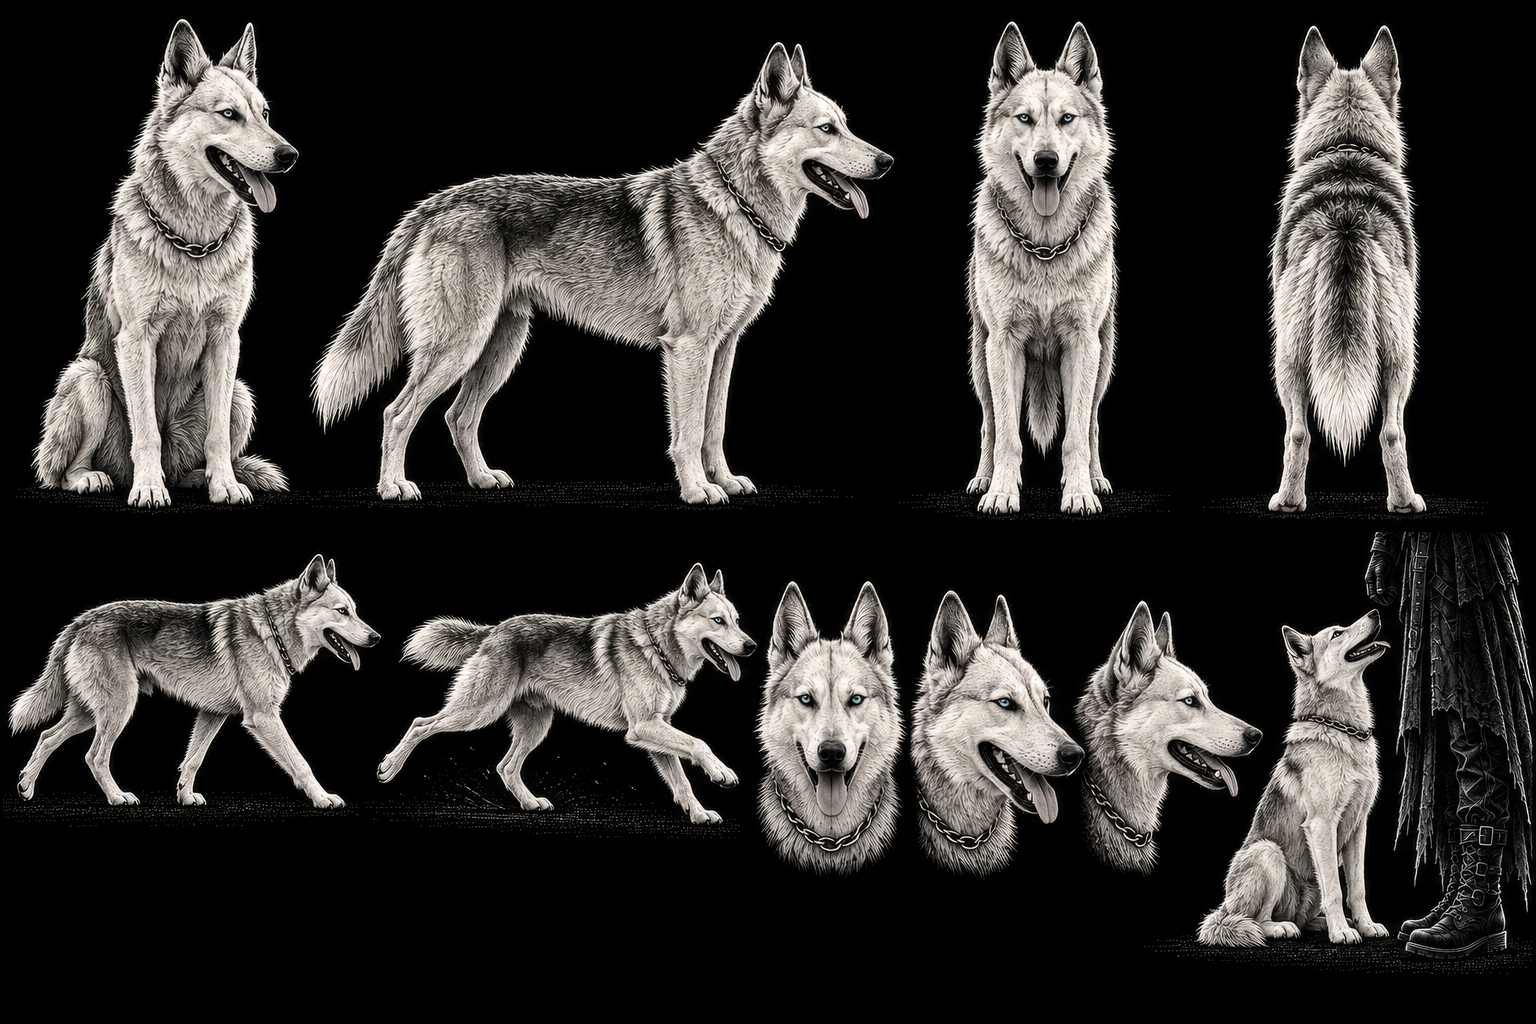
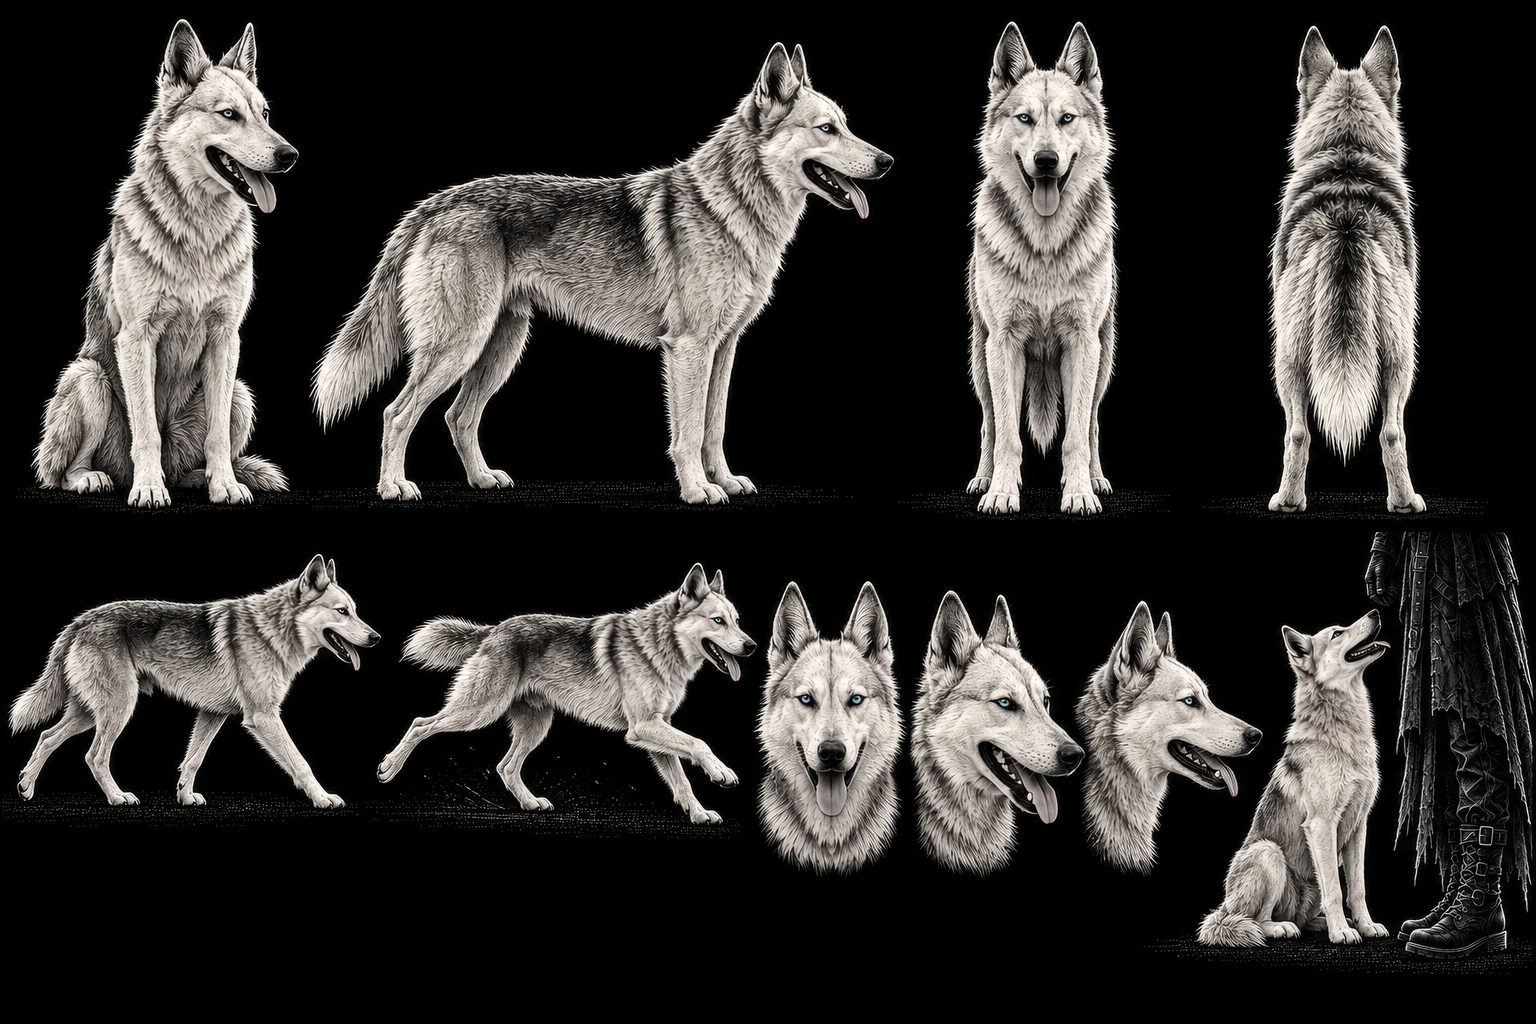
Hjeron painted: wolfdog without a collar
Robin: no collar. Chain removed from every view and the neck ruff fur
continued; only the neck areas composited from the Codex edit.

Refs #83

diff --git a/hjeron-dark-blues-painted/gpt/character/README.md b/hjeron-dark-blues-painted/gpt/character/README.md
@@ -67,6 +67,6 @@ walking; running; head front, three-quarter, profile; beside the Wyrd One for sc
 
 `wolfdog-sheet-6144.jpg` (6144x4096; lossless PNG in `secondunit/hjeron-darkblues-ref/`), 1536 copy
 `wolfdog-sheet.png`. His real dog: a medium, lean, pale cream husky-type wolfdog, upright ears, a darker cream
-saddle, a silver chain collar; ice-blue eyes are its only colour. Solid, no spirit effects. Views: sitting,
+saddle; no collar (Robin); ice-blue eyes are its only colour. Solid, no spirit effects. Views: sitting,
 standing side, front, back; walking; trotting; head front, three-quarter, profile; sitting at his feet (head about
 knee height). Codex GPT Image from his photo (`hand-headstock-wolfdog-real.webp`, cropped to the dog), Topaz 4x.
